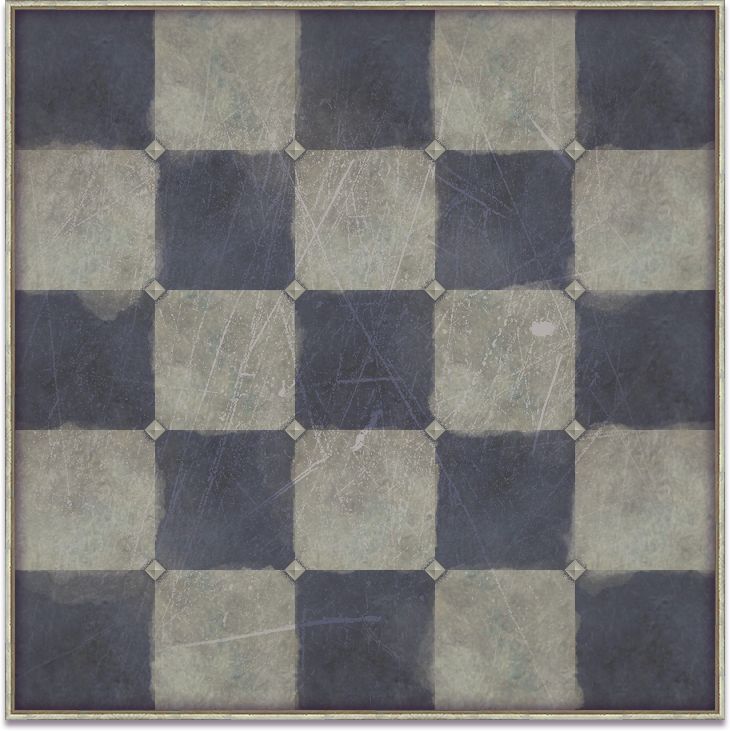
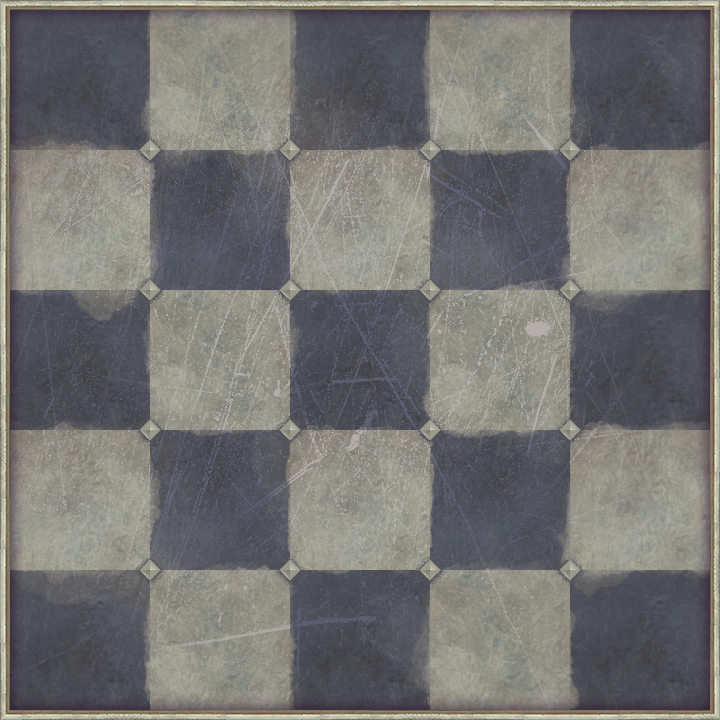
chg: update image assets

diff --git a/packages/client/src/views/April/AprilPlayField.vue b/packages/client/src/views/April/AprilPlayField.vue
@@ -1,6 +1,6 @@
 <template>
   <div
-    class="width-100 height-100 dummy-height flex flex-column flex-no-wrap overflow-hidden"
+    class="april-play-field width-100 height-100 dummy-height flex flex-column flex-no-wrap overflow-hidden"
     :style="{ '--base-size': `${baseSize}px` }"
   >
     <div
@@ -53,7 +53,8 @@
         </div>
         <!-- chess board -->
         <div class="april-play-board-border-outer">
-          <div class="april-play-board-border">
+          <div class="april-play-board-border relative">
+            <div class="april-play-board-background absolute-stretch"></div>
             <div class="april-play-board">
               <AprilBoardCell
                 v-for="(cell, cellIndex) in boardCells"
@@ -304,7 +305,10 @@ export default {
       for (let i = 0; i < num; i++) {
         const card = {
           id: Date.now() + i,
-          cardClass: cardClasses[random(0, cardClasses.length - 1)]
+          cardClass: cardClasses[random(0, cardClasses.length - 1)],
+          nextCells: [...new Array(random(1, 3)).fill(null)].map(() =>
+            random(0, 24)
+          )
         };
         cards.push(card);
       }
@@ -457,6 +461,10 @@ export default {
 </script>
 
 <style scoped lang="less">
+.april-play-field {
+  background: url("/images/april/background.jpg") center bottom / cover
+    no-repeat;
+}
 .april-play-stat {
   background: #2f7285;
 }
@@ -516,30 +524,37 @@ export default {
   height: calc(var(--base-size) * 0.3);
 }
 .step-cell {
-  background: url("/images/april/action_point.png") center/100% no-repeat;
+  background: url("/images/april/action_point.png") center / 100% no-repeat;
 }
 .hp-cell {
-  background: url("/images/april/hp.png") center/100% no-repeat;
+  background: url("/images/april/hp.png") center / 100% no-repeat;
 }
 .step-cell-add {
-  background: url("/images/april/action_point_add.png") center/100% no-repeat;
+  background: url("/images/april/action_point_add.png") center / 100% no-repeat;
 }
 .april-play-board {
   display: grid;
   grid-template-columns: repeat(5, calc(var(--base-size) * 0.8));
 }
 .april-play-board-border-outer {
-  border: 1px solid #748da1;
-  border-radius: 4px;
+  // border: 1px solid #748da1;
+  // border-radius: 4px;
 }
 .april-play-board-border {
-  border: 4px solid #748da1;
-  border-radius: 4px;
+  // border: 4px solid #748da1;
+  // border-radius: 4px;
+  padding: 4px;
+}
+.april-play-board-background {
+  background: url("/images/april/board.png") center / 100% no-repeat;
 }
 .april-play-deck-counter {
-  left: 50%;
+  left: 60%;
   top: 0;
   transform: translate(-50%, -120%);
+}
+.april-play-deck-1 .april-play-deck-counter {
+  left: 40%;
 }
 // animation
 // .card-move-enter-active,

diff --git a/packages/client/src/views/April/AprilCard.vue b/packages/client/src/views/April/AprilCard.vue
@@ -8,11 +8,14 @@
     }"
     @click="$emit('click', card)"
   >
-    <div
-      class="april-card-wrapper"
-      :class="{ 'april-card-wrapper--selected': isSelected }"
-    >
-      <div class="april-card relative" :class="`april-card--${card.cardClass}`">
+    <div class="april-card-wrapper">
+      <div
+        class="april-card relative"
+        :class="[
+          `april-card--${card.cardClass}`,
+          { 'april-card--selected': isSelected }
+        ]"
+      >
         <div
           class="april-card-background absolute-stretch"
           :class="`april-card-background--${card.cardClass}`"
@@ -22,7 +25,7 @@
   </div>
 </template>
 <script>
-import { mapState } from "vuex";
+import { mapGetters } from "vuex";
 export default {
   props: {
     card: Object,
@@ -33,9 +36,11 @@ export default {
     return {};
   },
   computed: {
-    ...mapState("april", ["selectedCardId"]),
+    ...mapGetters("april", ["selectedCard"]),
     isSelected() {
-      return this.card && this.card.id === this.selectedCardId;
+      return (
+        this.card && this.selectedCard && this.card.id === this.selectedCard.id
+      );
     },
     indexFromCenter2() {
       return this.index + 0.5 - this.totalCards / 2;
@@ -99,7 +104,10 @@ export default {
   // border-radius: 6px;
   // background: #fff;
   // border: 1px solid #eee;
-  background: url("/images/april/chess_card.png") center/100% no-repeat;
+  background: url("/images/april/chess_card.png") center / 100% no-repeat;
+}
+.april-card--selected {
+  background-image: url("/images/april/chess_card_selected.png");
 }
 .april-card-background {
   border-radius: 6px;

diff --git a/packages/client/src/views/April/AprilBoardCell.vue b/packages/client/src/views/April/AprilBoardCell.vue
@@ -8,6 +8,13 @@
     @click="clickHandler"
   >
     <div class="april-board-cell absolute-stretch">
+      <!-- available move -->
+      <Transition name="fade" appear>
+        <div
+          v-if="isAvailableMove"
+          class="april-board-cell-available-move absolute-stretch"
+        />
+      </Transition>
       <!-- hit zone -->
       <Transition name="fade" appear>
         <div
@@ -23,13 +30,6 @@
             {{ damagePoint }}
           </div>
         </div>
-      </Transition>
-      <!-- available move -->
-      <Transition name="fade" appear>
-        <div
-          v-if="isAvailableMove"
-          class="april-board-cell-available-move absolute-stretch"
-        />
       </Transition>
       <!-- enemy -->
       <Transition name="fade" appear>
@@ -228,10 +228,10 @@ export default {
 .april-board-cell-container {
   width: calc(var(--base-size) * 0.8);
   height: calc(var(--base-size) * 0.8);
-  background: #245178;
+  // background: #245178;
 }
 .april-board-cell-container--black {
-  background: #12283d;
+  // background: #12283d;
 }
 .april-board-cell {
 }
